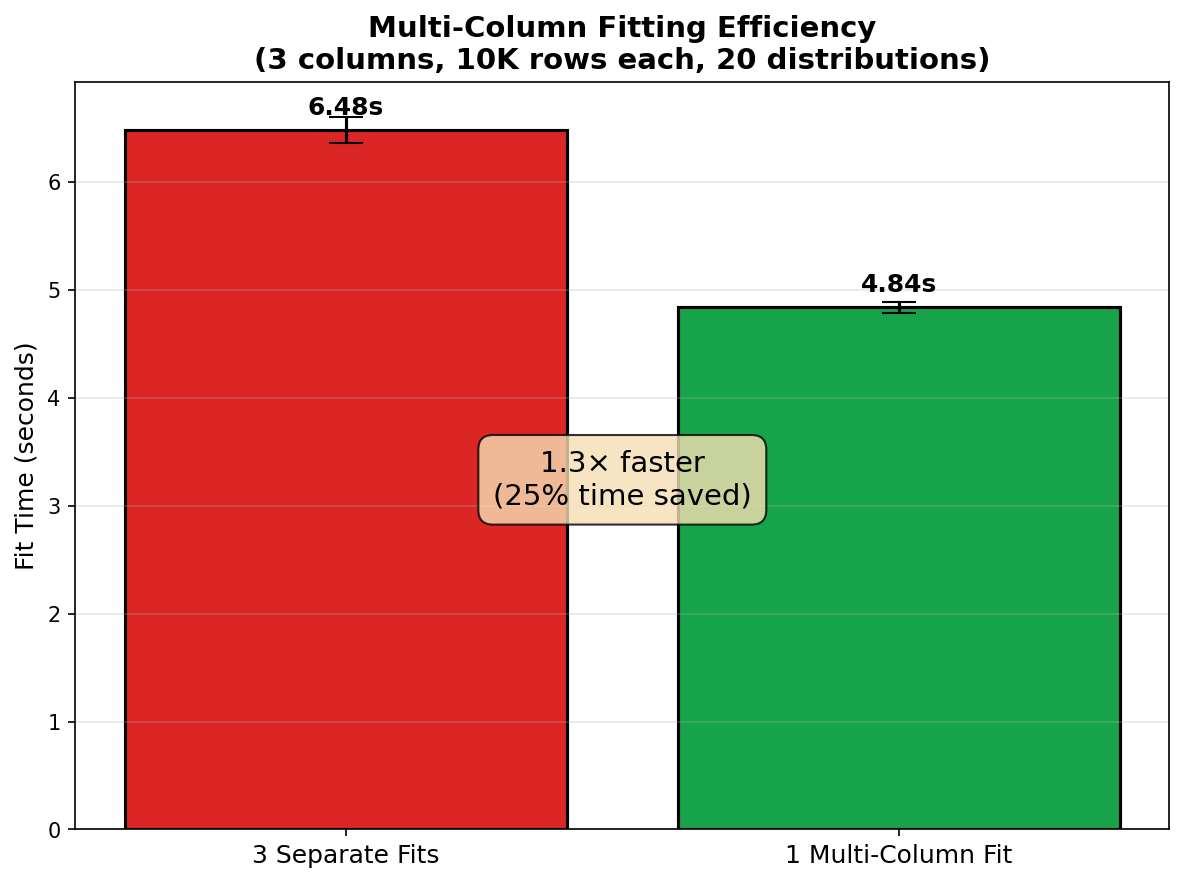
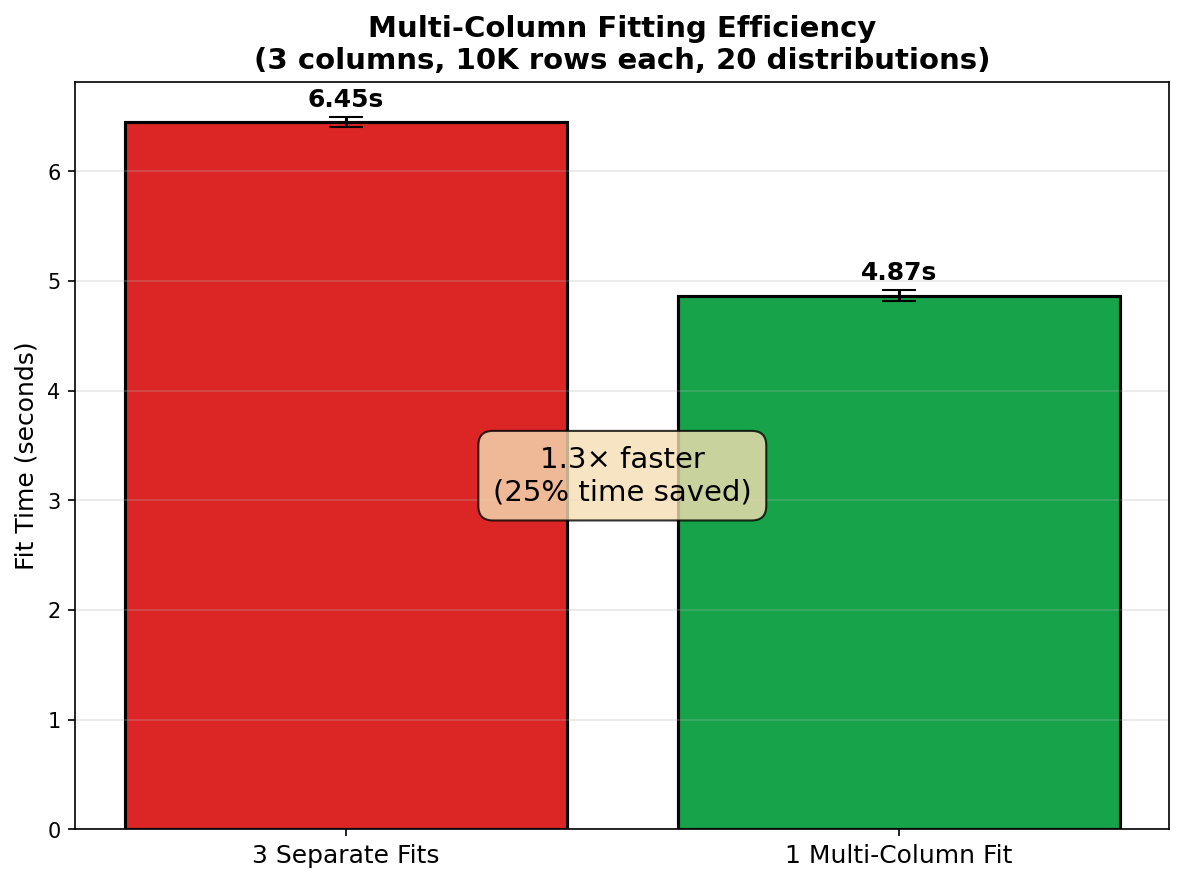
docs: update benchmark stats to 0008 results
- Update performance.rst with current benchmark timings
- Regenerate scaling charts from latest pytest-benchmark results
- Update benchmark conftest with lean Spark configuration

diff --git a/tests/benchmarks/conftest.py b/tests/benchmarks/conftest.py
@@ -18,8 +18,10 @@ def spark_session():
     spark = (
         SparkSession.builder.appName("spark-bestfit-benchmarks")
         .master("local[*]")
-        .config("spark.sql.shuffle.partitions", "8")
+        .config("spark.sql.shuffle.partitions", "20")
         .config("spark.sql.execution.arrow.pyspark.enabled", "true")
+        .config("spark.sql.adaptive.enabled", "true")
+        .config("spark.sql.adaptive.coalescePartitions.enabled", "true")
         .config("spark.driver.memory", "4g")
         .config("spark.ui.enabled", "false")
         .getOrCreate()

diff --git a/docs/performance.rst b/docs/performance.rst
@@ -136,10 +136,10 @@ Fit time is **sub-linear** with data size due to the histogram-based approach:
 
     Data Size    | Fit Time  | Scaling Factor
     -------------|-----------|------------------
-    25,000       | ~9.6s     | 1.0× (baseline)
-    100,000      | ~12.9s    | ~1.3×
-    500,000      | ~12.5s    | ~1.3×
-    1,000,000    | ~15.5s    | ~1.6×
+    25,000       | ~14.7s    | 1.0× (baseline)
+    100,000      | ~19.6s    | ~1.3×
+    500,000      | ~18.8s    | ~1.3×
+    1,000,000    | ~23.4s    | ~1.6×
 
 A 40× increase in data results in only ~1.6× increase in time (vs 40× if O(N)).
 
@@ -153,13 +153,13 @@ distributions are computationally expensive:
 
     # Distributions | Fit Time  | Time per Distribution
     ----------------|-----------|----------------------
-    5               | ~0.4s     | ~76ms (fast dists)
-    20              | ~1.4s     | ~69ms (fast dists)
-    50              | ~2.0s     | ~39ms (fast dists)
-    100             | ~16.2s    | ~162ms (includes slow dists)
+    5               | ~0.5s     | ~102ms (fast dists)
+    20              | ~2.1s     | ~104ms (fast dists)
+    50              | ~2.8s     | ~56ms (fast dists)
+    100             | ~24.4s    | ~244ms (includes slow dists)
 
-The first ~50 distributions are fast (~35-75ms each). The remaining distributions
-include slow ones like ``levy_stable`` and ``studentized_range`` (~285ms each).
+The first ~50 distributions are fast (~50-100ms each). The remaining distributions
+include slow ones like ``levy_stable`` and ``studentized_range`` (~430ms each).
 
 Multi-Column Efficiency
 ^^^^^^^^^^^^^^^^^^^^^^^
@@ -190,7 +190,7 @@ always use ``columns=[...]`` instead of separate ``column=`` calls.
 
 .. note::
    Multi-column fitting scales well with data size. In benchmarks, fitting 3 columns
-   with 100K rows each took similar time to 10K rows (~4.4s vs ~4.8s), demonstrating
+   with 100K rows each took similar time to 10K rows (~4.5s vs ~4.9s), demonstrating
    the sub-linear scaling benefits of the histogram-based approach.
 
 Spark Configuration

diff --git a/docs/_static/benchmark_summary.md b/docs/_static/benchmark_summary.md
@@ -18,25 +18,25 @@
 
 | Data Size | Fit Time (mean) | Std Dev |
 |-----------|-----------------|---------|
-| 25,000 | 14.609s | ±0.257s |
-| 100,000 | 23.043s | ±2.732s |
-| 500,000 | 18.733s | ±0.308s |
-| 1,000,000 | 23.110s | ±0.276s |
+| 25,000 | 14.696s | ±0.054s |
+| 100,000 | 19.638s | ±0.163s |
+| 500,000 | 18.816s | ±0.037s |
+| 1,000,000 | 23.377s | ±0.072s |
 
 ## Distribution Count Scaling
 
 | # Distributions | Fit Time (mean) | Std Dev |
 |-----------------|-----------------|---------|
-| 5 | 0.526s | ±0.018s |
-| 20 | 2.059s | ±0.029s |
-| 50 | 2.795s | ±0.057s |
-| 100 | 24.827s | ±0.358s |
+| 5 | 0.510s | ±0.013s |
+| 20 | 2.074s | ±0.029s |
+| 50 | 2.815s | ±0.053s |
+| 100 | 24.414s | ±0.044s |
 
 ## Multi-Column Efficiency
 
 | Approach | Fit Time (mean) | Std Dev |
 |----------|-----------------|---------|
-| 3 Separate Fits | 6.481s | ±0.119s |
-| 1 Multi-Column Fit | 4.841s | ±0.051s |
+| 3 Separate Fits | 6.451s | ±0.042s |
+| 1 Multi-Column Fit | 4.867s | ±0.051s |
 
 **Speedup:** 1.3× faster (25% time saved)
